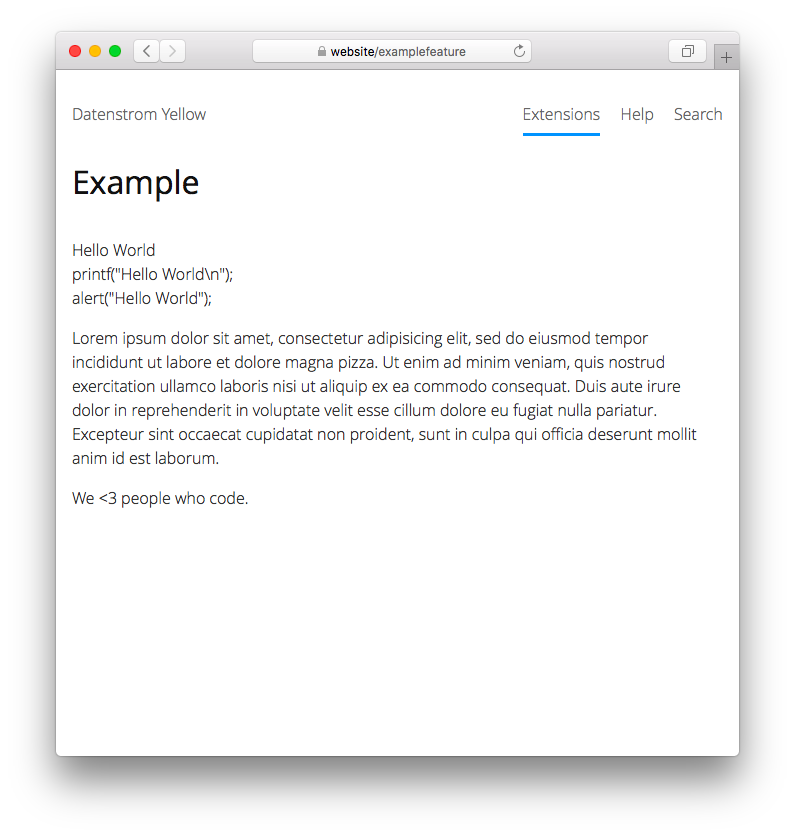
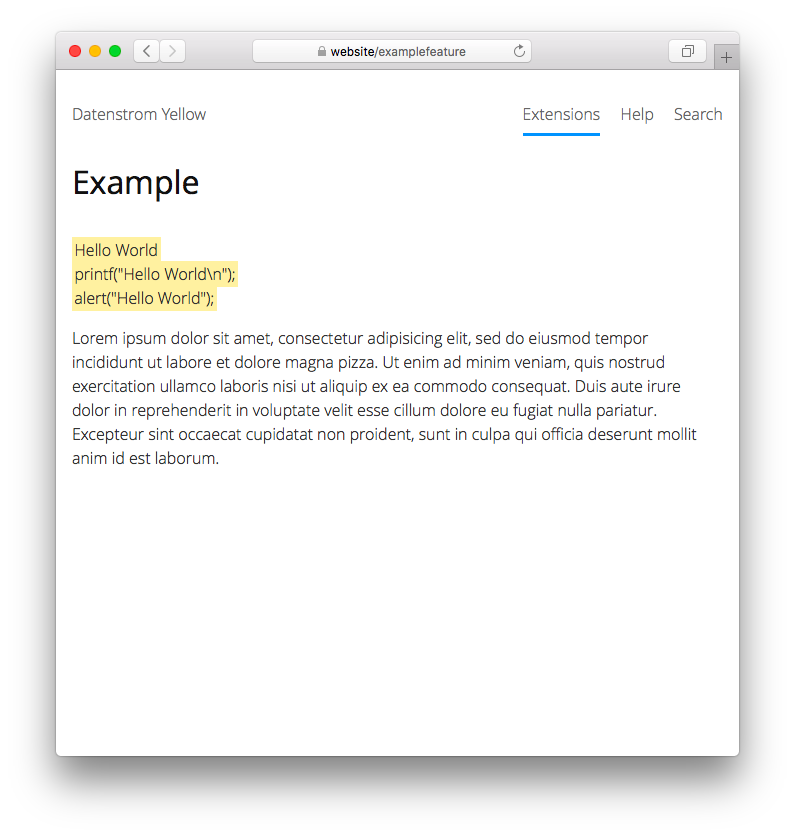
Updated example

Changed region(s): [[0.0906, 0.2799, 0.3019, 0.3732], [0.0906, 0.5909, 0.3019, 0.622]]

diff --git a/example.php b/example.php
@@ -13,9 +13,9 @@ class YellowExample {
     // Handle page content element
     public function onParseContentElement($page, $name, $text, $attributes, $type) {
         $output = null;
-        if ($name=="example" && ($type=="block" || $type=="inline")) {
+        if ($name=="example" && $type=="inline") {
             if (is_string_empty($text)) $text = "Hello World";
-            $output = "<div class=\"example\">".htmlspecialchars($text)."</div>";
+            $output = "<span class=\"example\">".htmlspecialchars($text)."</span>";
         }
         return $output;
     }

diff --git a/readme.md b/readme.md
@@ -21,8 +21,8 @@ Content file with custom shortcut:
     ---
     This is an example page with a custom shortcut.
 
-    [example Hello World]
-    [example printf("Hello World\n");]
+    [example Hello World]  
+    [example printf("Hello World\n");]  
     [example alert("Hello World");]  
 
     Lorem ipsum dolor sit amet, consectetur adipisicing elit, sed do eiusmod 
